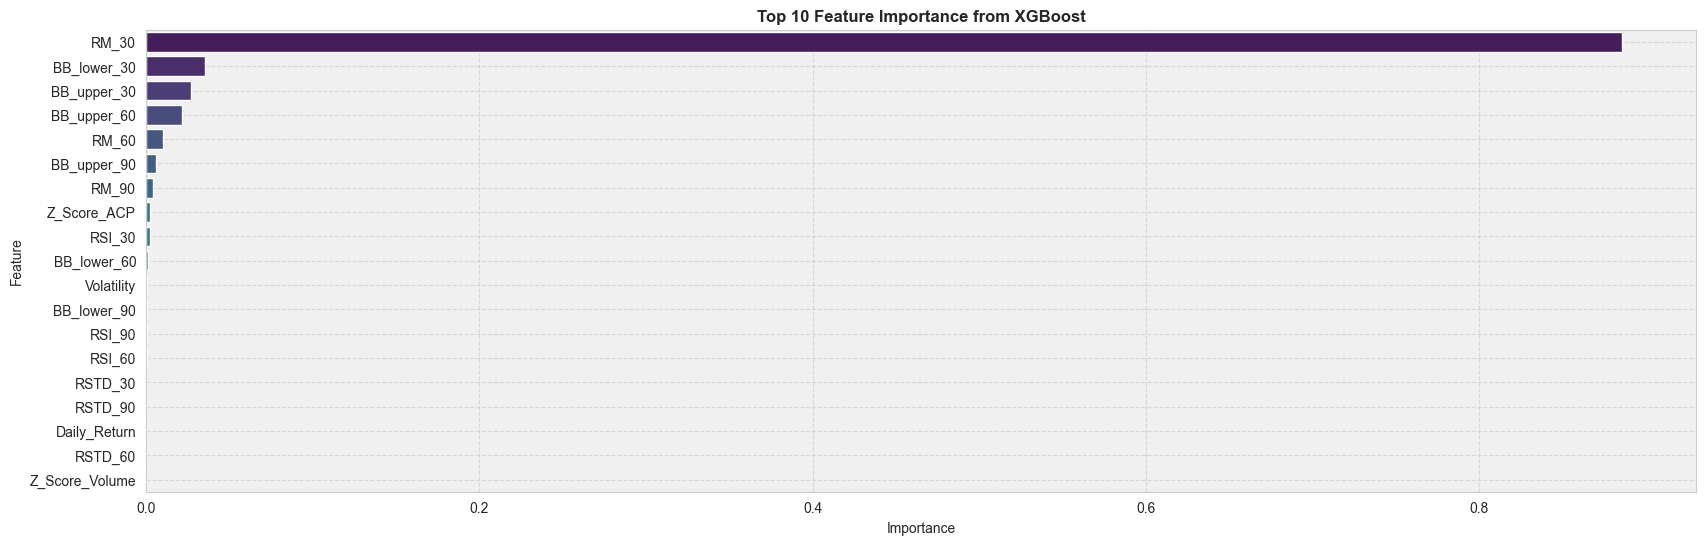
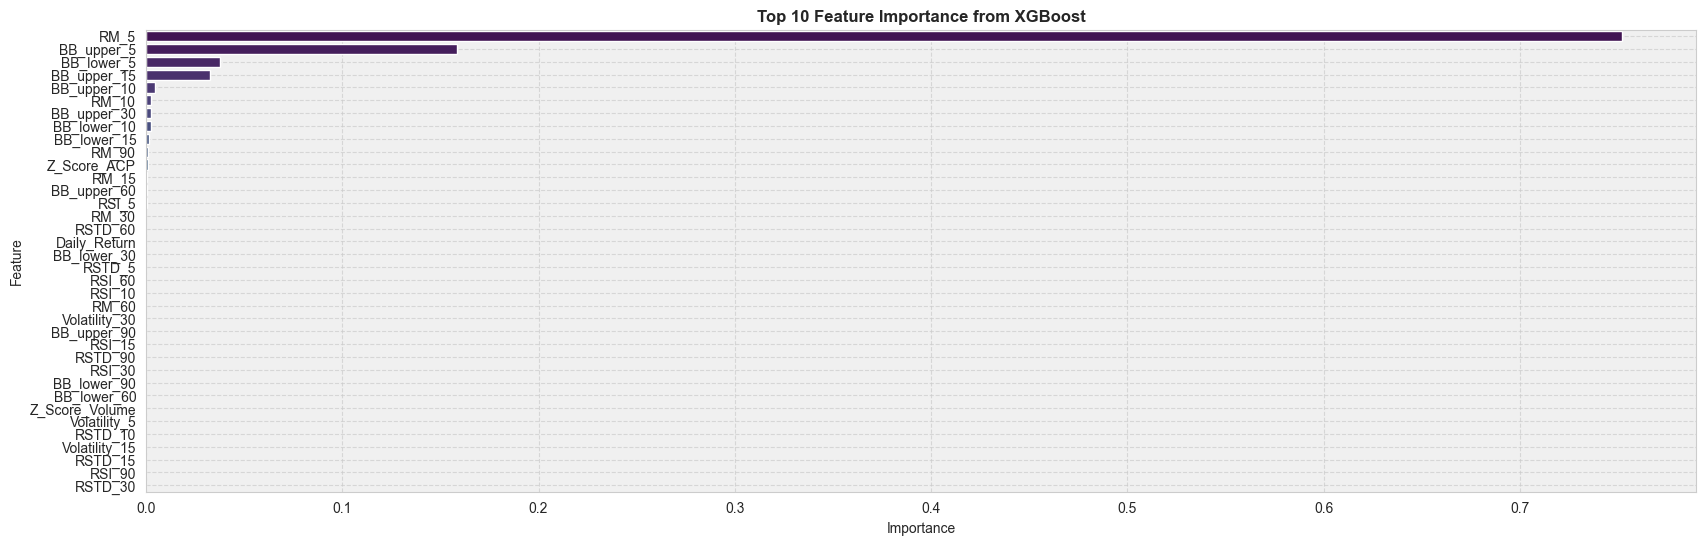
additional updates to XGB

diff --git a/Pages/Project.py b/Pages/Project.py
@@ -882,14 +882,14 @@ with st.container(border=True):
     print(f"Mean RMSE with RFE: {cv_rmse_w_rfe.mean()}")
     ''')
 
-    st.write('Cross-validated RMSE scores without RFE: [38.26555756  7.76247466 30.61504972  9.16085797  9.22448878]')
-    st.write('Mean RMSE: 19.005685738112522')
-    st.write('Cross-validated RMSE scores with RFE: [38.93866323  8.24550119 30.41290269  9.26231861  9.29040843]')
-    st.write('Mean RMSE with RFE: 19.2299588295056')
+    st.write('Cross-validated RMSE scores without RFE: [32.63447453  2.22874748 27.71891349  4.43199662  6.10554772]')
+    st.write('Mean RMSE: 14.62393596757805')
+    st.write('Cross-validated RMSE scores with RFE: [30.26314701  2.22361474 28.32227043  4.59673514  5.93427474]')
+    st.write('Mean RMSE with RFE: 14.26800841253872')
 
 
     st.markdown('''
-    Considering that they both generalize well, we can use the model with all the features
+    They both generalize well, and the model with RFE performs slightly better than the model without RFE.
     ''')
 
     st.markdown('''
@@ -973,6 +973,69 @@ with st.container(border=True):
 
     st.image('https://raw.githubusercontent.com/Sami-Alyasin/Crystal-Stockball/refs/heads/main/data/featureimportance2.png')
 
+    st.code('''
+    # Initialze RFE with XGBoost as the estimator
+    rfe_xgb = RFE(estimator=xgb_model, n_features_to_select=10)
+
+    # Fit RFE
+    rfe_xgb.fit(X_train, y_train)
+
+    # Get the ranking of features
+    rfe_xgb_ranking = pd.DataFrame({
+        'Feature': feature_columns,
+        'Ranking': rfe_xgb.ranking_
+    }).sort_values(by='Ranking')
+
+    print(rfe_xgb_ranking)
+    ''')
+    
+    url10a = "https://raw.githubusercontent.com/Sami-Alyasin/Crystal-Stockball/main/data/rfe_xgb_ranking.csv"
+    @st.cache_data
+    def load_data():
+        return pd.read_csv(url10a)
+    df10a = load_data()
+    st.dataframe(df10a)
+    
+    st.code('''
+    # Select top features (from RFE or feature importance analysis)
+    selected_features = rfe_xgb_ranking[rfe_xgb_ranking['Ranking'] == 1]['Feature'].tolist()
+
+    # Train the model with selected features
+    X_train_selected = X_train[selected_features]
+    X_test_selected = X_test[selected_features]
+
+    # Initialize XGBoost model
+    xgb_model2 = xgb.XGBRegressor(objective='reg:squarederror', n_estimators=100, learning_rate=0.1, random_state=42)
+
+    # Fit the model
+    xgb_model2.fit(X_train_selected, y_train)
+
+    # Predict on the test data
+    xgb_predictions = xgb_model2.predict(X_test_selected)
+
+    # Evaluate the model
+    xgb_mae = mean_absolute_error(y_test, xgb_predictions)
+    xgb_rmse = root_mean_squared_error(y_test, xgb_predictions)
+    xgb_mse = np.square(xgb_rmse)
+    xgb_r2 = r2_score(y_test, xgb_predictions)
+
+    # append XGBoost results
+    model_name = 'XGBoost w/RFE'
+    if model_name in evaluation_df['Model'].values:
+        evaluation_df.loc[evaluation_df['Model'] == model_name, ['MAE', 'MSE', 'RMSE', 'R2']] = [xgb_mae, xgb_mse, xgb_rmse, xgb_r2]
+    else:
+        evaluation_df.loc[len(evaluation_df)] = [model_name, xgb_mae, xgb_mse, xgb_rmse, xgb_r2]
+    evaluation_df.to_csv('/Users/sami/DSP/App-SPP/data/evaluation_df4b.csv', index=False)
+    evaluation_df
+            ''')
+    
+    url10b = "https://raw.githubusercontent.com/Sami-Alyasin/Crystal-Stockball/main/data/evaluation_df4b.csv"
+    @st.cache_data
+    def load_data():
+        return pd.read_csv(url10b)
+    df10b = load_data()
+    st.dataframe(df10b)
+    
     st.markdown('''
     Cross-Validation with XGBoost
     Just like with RandomForest, you can apply TimeSeriesSplit to perform cross-validation with XGBoost
